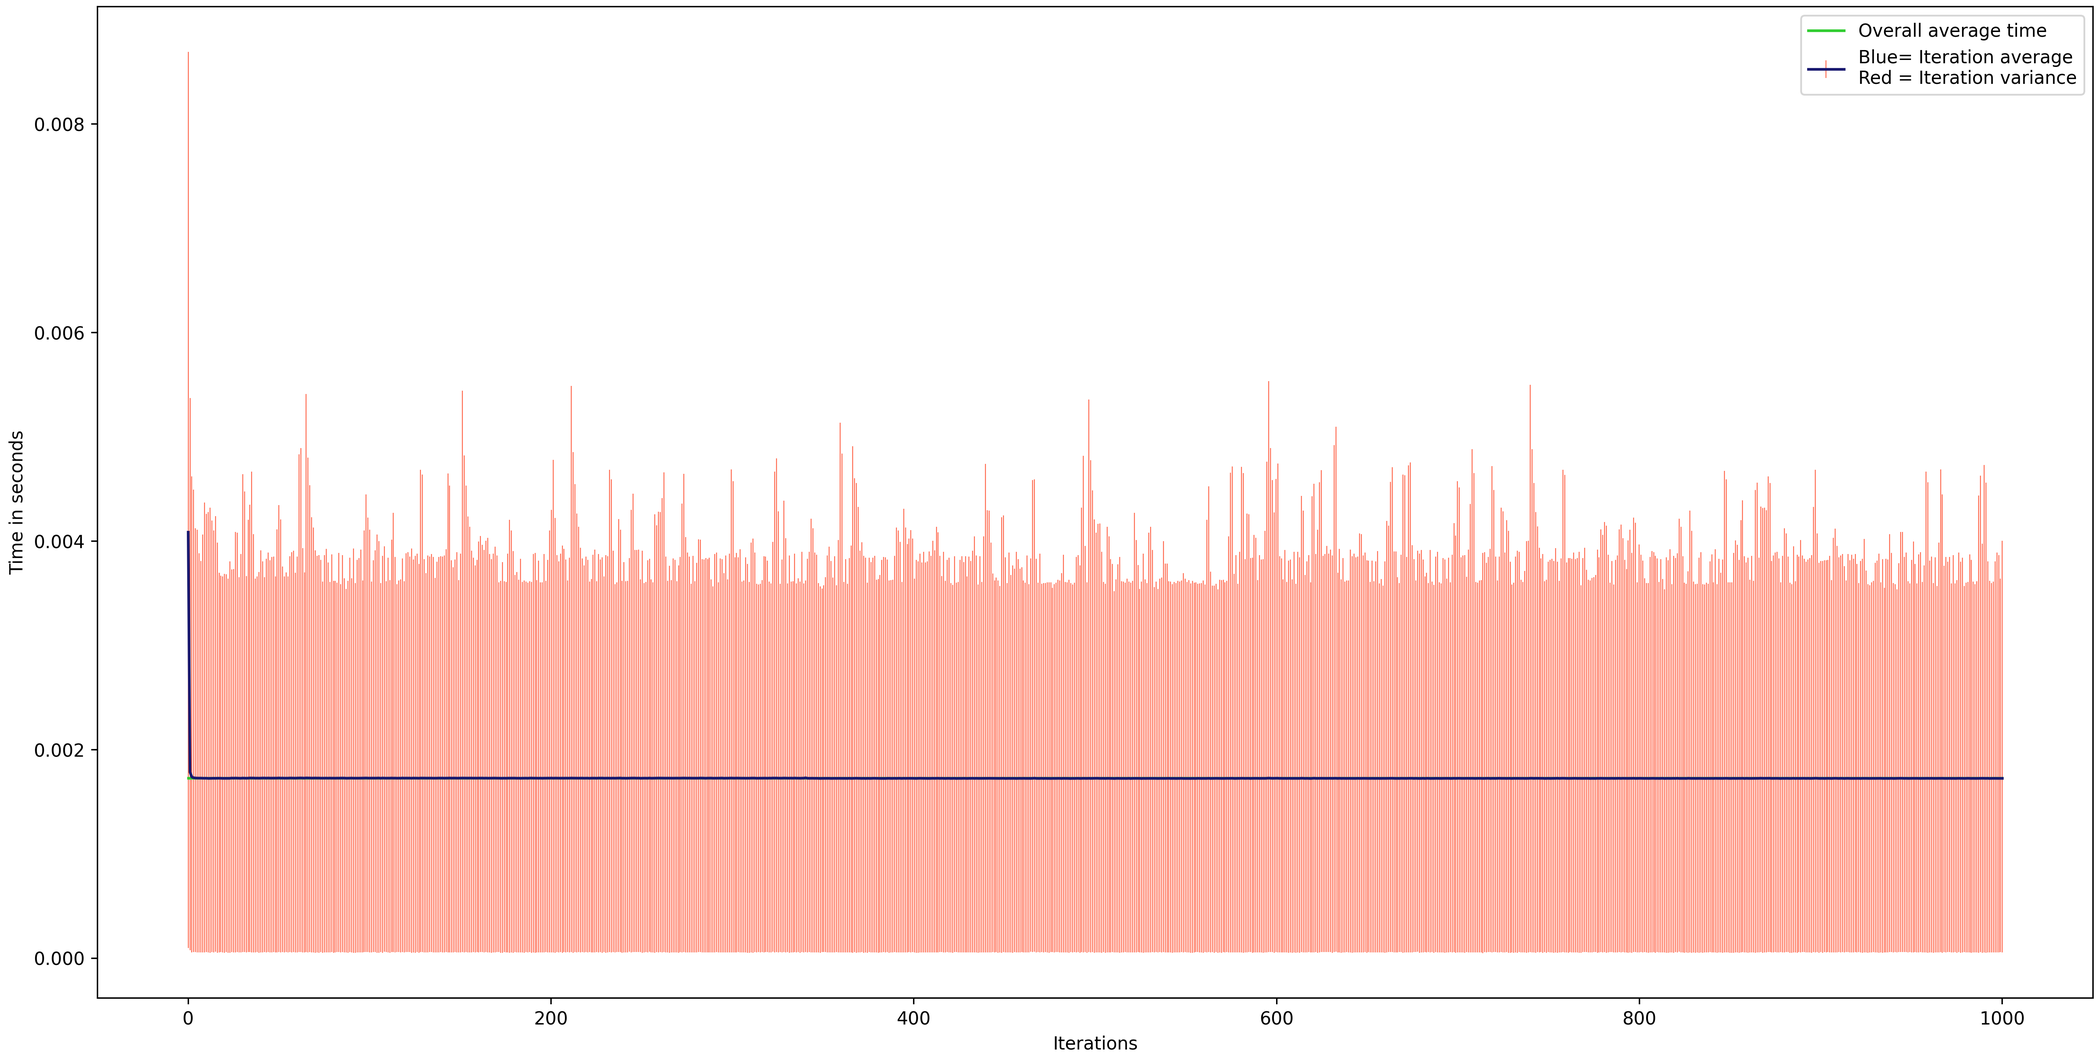
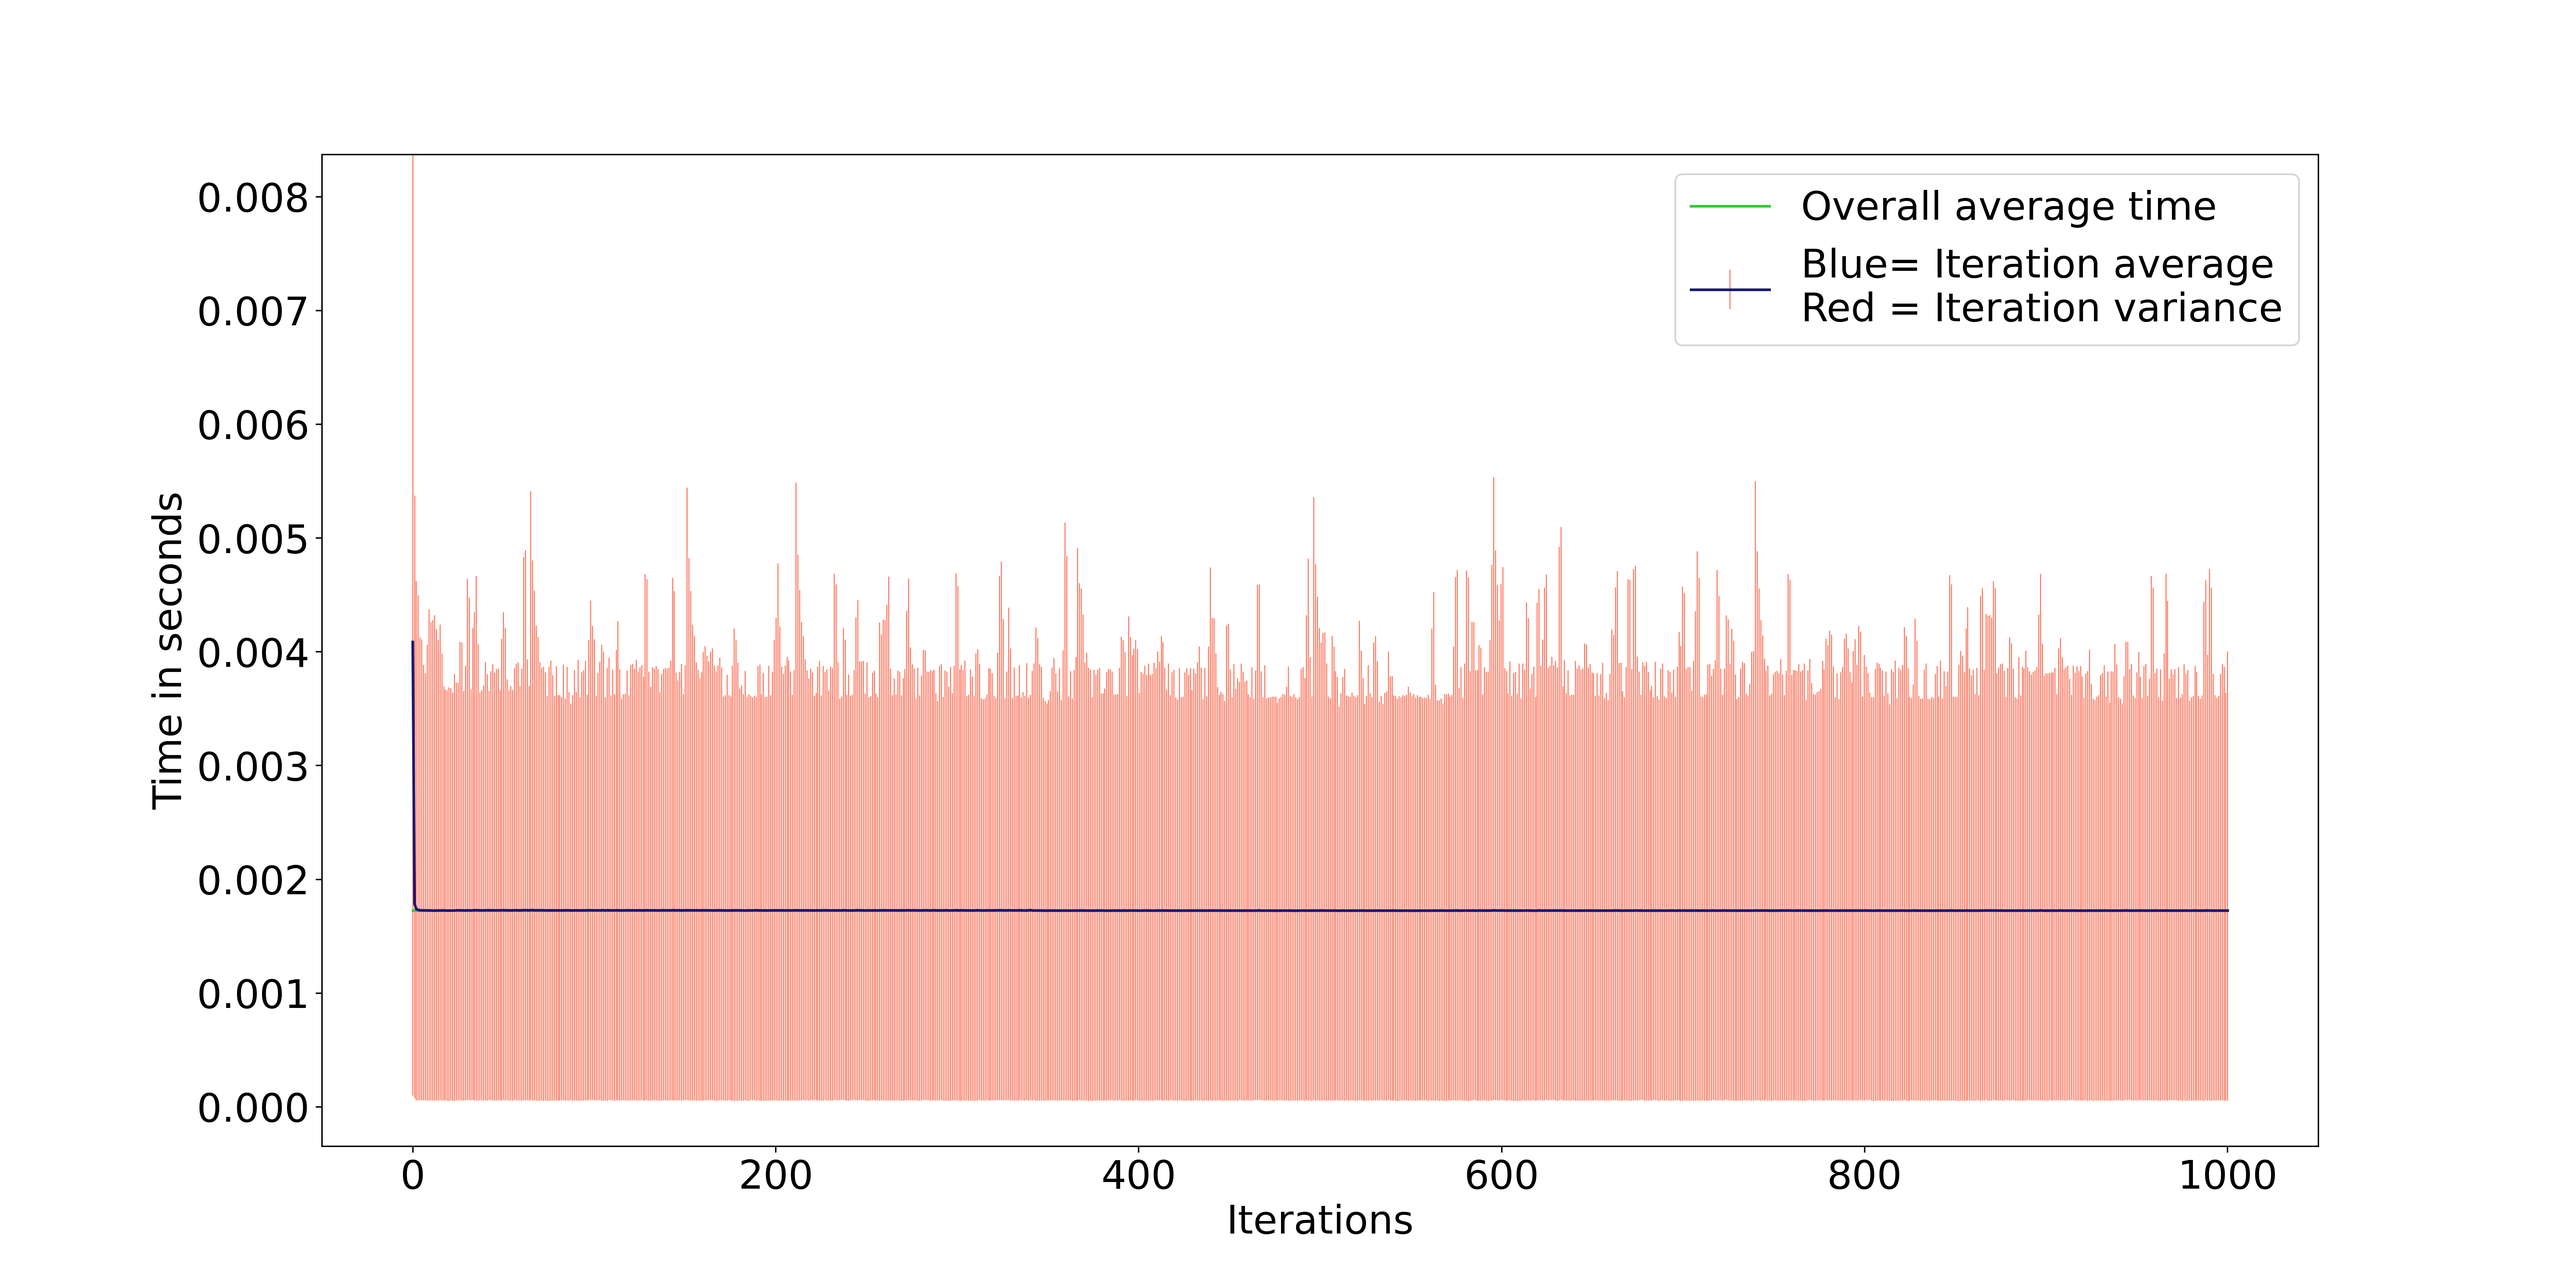
remade graphs with a readable font size

diff --git a/benchpress/graphing/lattice_boltzmann/error_graph.py b/benchpress/graphing/lattice_boltzmann/error_graph.py
@@ -4,10 +4,10 @@ import matplotlib.pyplot as plt
 counter = 1
 
 #setup step:
-avg_arr = np.loadtxt('../../benchmark/timings/lb/stripped/test10.txt')
+avg_arr = np.loadtxt('../../benchmark/timings/lb/++/test10.txt')
 min_max_arr = np.empty([2,1000])
-min_max_arr[0] = np.loadtxt('../../benchmark/timings/lb/stripped/test10.txt')
-min_max_arr[1] = np.loadtxt('../../benchmark/timings/lb/stripped/test10.txt')
+min_max_arr[0] = np.loadtxt('../../benchmark/timings/lb/++/test10.txt')
+min_max_arr[1] = np.loadtxt('../../benchmark/timings/lb/++/test10.txt')
 
 # print(avg_arr.shape)
 # print(avg_arr)
@@ -19,7 +19,7 @@ min_max_arr[1] = np.loadtxt('../../benchmark/timings/lb/stripped/test10.txt')
 #Skipping 10 first executions for warmup purposes
 for i in range(11,2001):
 	counter += 1
-	curr_exec = np.loadtxt('../../benchmark/timings/lb/stripped/test' + str(i) + '.txt')
+	curr_exec = np.loadtxt('../../benchmark/timings/lb/++/test' + str(i) + '.txt')
 	for j in range(len(curr_exec)):
 	
 	
@@ -32,6 +32,7 @@ for i in range(11,2001):
 			#MAX
 			min_max_arr[1][j] = curr_exec[j]
 
+plt.rcParams.update({'font.size': 22})
 
 final_avg_arr = [(x/counter) for x in avg_arr]
 
@@ -49,25 +50,30 @@ plt.figure(figsize=(20,10))
 # ax.set_aspect(0.7)
 
 plt.errorbar(x, final_avg_arr, elinewidth=0.5, fmt='midnightblue', yerr=min_max_arr, label="Blue= Iteration average\nRed = Iteration variance", ecolor='tomato')
-
 plt.xlabel('Iterations')
 plt.ylabel('Time in seconds')
 
 # plt.savefig('3kgraph.png', dpi=250)
 
 actual_avg_list = [actual_avg] * len(x)
-print(actual_avg)
+# print(actual_avg)
 
 # plt.plot(x, final_avg_arr, 'go', label="Iteration average")
 plt.plot(x,actual_avg_list, '-', color='limegreen', label="Overall average time")
 plt.xlabel('Iterations')
 plt.ylabel('Time in seconds')
 
-plt.legend(loc="upper right")
 
 
+axes = plt.gca()
+# axes.set_ylim([-0.00034611973829414905, 0.008370776085347474])
+# try:
+# 	print(axes.get_ylim())
+# except:
+# 	print(axes.ylim)
 
 # plt.savefig('3kgraph_avg.png', dpi=250)
 # plt.savefig('test.png', dpi=150)
 # plt.show()
-# plt. savefig('stripped.png', dpi=350)
+plt.legend()
+plt.savefig('++.png', dpi=350)

diff --git a/benchpress/graphing/shallow_water/error_graph.py b/benchpress/graphing/shallow_water/error_graph.py
@@ -32,6 +32,7 @@ for i in range(11,2001):
 			#MAX
 			min_max_arr[1][j] = curr_exec[j]
 
+plt.rcParams.update({'font.size': 22})
 
 final_avg_arr = [(x/counter) for x in avg_arr]
 
@@ -44,12 +45,7 @@ x = np.linspace(0,len(final_avg_arr),len(final_avg_arr))
 plt.figure(figsize=(20,10))
 
 
-#Aspect ratio between axis
-# ax = plt.gca()
-# ax.set_aspect(0.7)
-
 plt.errorbar(x, final_avg_arr, elinewidth=0.5, fmt='midnightblue', yerr=min_max_arr, label="Blue= Iteration average\nRed = Iteration variance", ecolor='tomato')
-
 plt.xlabel('Iterations')
 plt.ylabel('Time in seconds')
 
@@ -63,11 +59,17 @@ plt.plot(x,actual_avg_list, '-', color='limegreen', label="Overall average time"
 plt.xlabel('Iterations')
 plt.ylabel('Time in seconds')
 
+
 axes = plt.gca()
-axes.set_ylim([-0.0001,0.0042])
+axes.set_ylim([-0.00017448231963488475, 0.0042751414483769385])
+try:
+	print(axes.get_ylim())
+except:
+	print(axes.ylim)
 
 
 # plt.savefig('3kgraph_avg.png', dpi=250)
 # plt.savefig('test.png', dpi=150)
 # plt.show()
-plt. savefig('++_final_limited.png', dpi=350)
+plt.legend()
+plt.savefig('++.png', dpi=350)

diff --git a/benchpress/benchmark/sw_1.py b/benchpress/benchmark/sw_1.py
@@ -126,8 +126,8 @@ def simulate(state, timesteps):
             start_time = timeit.default_timer()
             loop_body(state['H'], state['U'], state['V'])
             stop_time = timeit.default_timer()
-            with open(save, 'a') as f:
-                f.write(str(stop_time - start_time) + '\n')
+            # with open(save, 'a') as f:
+            #     f.write(str(stop_time - start_time) + '\n')
         else:
             break
 

diff --git a/benchpress/benchmark/sw_100.py b/benchpress/benchmark/sw_100.py
@@ -121,8 +121,8 @@ def simulate(state, timesteps):
             start_time = timeit.default_timer()
             loop_body(state['H'], state['U'], state['V'])
             stop_time = timeit.default_timer()
-            with open(save, 'a') as f:
-                f.write(str(stop_time - start_time) + '\n')
+            # with open(save, 'a') as f:
+            #     f.write(str(stop_time - start_time) + '\n')
         else:
             break
 

diff --git a/benchpress/benchmark/sw_100_cp.py b/benchpress/benchmark/sw_100_cp.py
@@ -126,8 +126,8 @@ def simulate(state, timesteps):
             start_time = timeit.default_timer()
             loop_body(state['H'], state['U'], state['V'])
             stop_time = timeit.default_timer()
-            with open(save, 'a') as f:
-                f.write(str(stop_time - start_time) + '\n')
+            # with open(save, 'a') as f:
+            #     f.write(str(stop_time - start_time) + '\n')
         else:
             break
 

diff --git a/benchpress/benchmark/sw_500.py b/benchpress/benchmark/sw_500.py
@@ -121,8 +121,8 @@ def simulate(state, timesteps):
             start_time = timeit.default_timer()
             loop_body(state['H'], state['U'], state['V'])
             stop_time = timeit.default_timer()
-            with open(save, 'a') as f:
-                f.write(str(stop_time - start_time) + '\n')
+            # with open(save, 'a') as f:
+            #     f.write(str(stop_time - start_time) + '\n')
         else:
             break
 

diff --git a/benchpress/benchmark/sw_modules.py b/benchpress/benchmark/sw_modules.py
@@ -120,8 +120,8 @@ def simulate(state, timesteps):
             start_time = timeit.default_timer()
             loop_body(state['H'], state['U'], state['V'])
             stop_time = timeit.default_timer()
-            with open(save, 'a') as f:
-                f.write(str(stop_time - start_time) + '\n')
+            # with open(save, 'a') as f:
+            #     f.write(str(stop_time - start_time) + '\n')
         else:
             break
 

diff --git a/benchpress/benchmark/sw_stripped++.py b/benchpress/benchmark/sw_stripped++.py
@@ -126,8 +126,8 @@ def simulate(state, timesteps):
             start_time = timeit.default_timer()
             loop_body(state['H'], state['U'], state['V'])
             stop_time = timeit.default_timer()
-            with open(save, 'a') as f:
-                f.write(str(stop_time - start_time) + '\n')
+            # with open(save, 'a') as f:
+            #     f.write(str(stop_time - start_time) + '\n')
         else:
             break
 

diff --git a/benchpress/benchmark/sw_stripped.py b/benchpress/benchmark/sw_stripped.py
@@ -118,8 +118,8 @@ def simulate(state, timesteps):
             start_time = timeit.default_timer()
             loop_body(state['H'], state['U'], state['V'])
             stop_time = timeit.default_timer()
-            with open(save, 'a') as f:
-                f.write(str(stop_time - start_time) + '\n')
+            # with open(save, 'a') as f:
+            #     f.write(str(stop_time - start_time) + '\n')
         else:
             break
 

diff --git a/benchpress/benchmark/lb_500.py b/benchpress/benchmark/lb_500.py
@@ -202,8 +202,8 @@ def solve(state, timesteps):
             start_time = timeit.default_timer()
             loop_body(state['fIn'])
             stop_time = timeit.default_timer()
-            with open(save, 'a') as f:
-                f.write(str(stop_time - start_time) + '\n')
+            # with open(save, 'a') as f:
+            #     f.write(str(stop_time - start_time) + '\n')
         else:
             break
 
